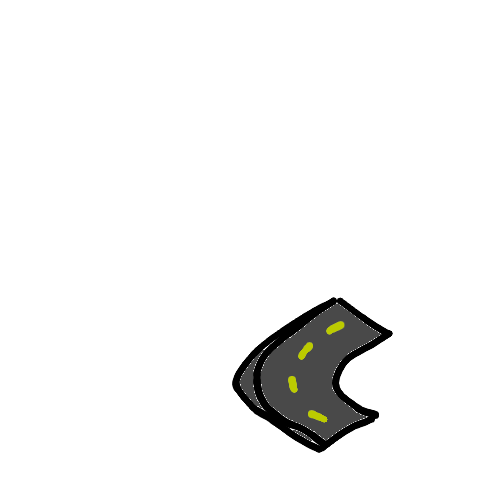
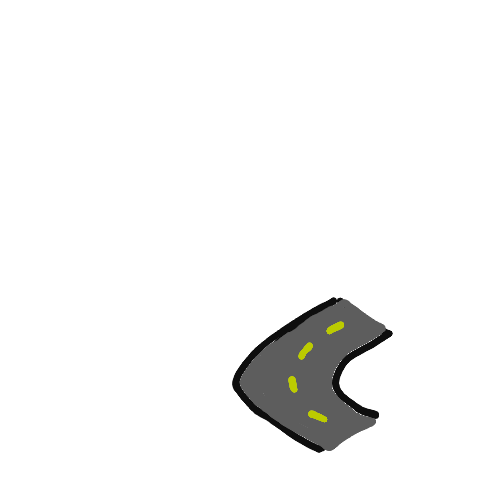
Update road colors and add transition between busy and normal roads

diff --git a/src/game.tsx b/src/game.tsx
@@ -31,7 +31,7 @@ export class GameBoard extends React.Component {
     private money = 100;
 
     private currentSteps = 0;
-    private generationSteps = 25;
+    private generationSteps = 100;
 
     /** Starting size */
     private size = 50;
@@ -139,6 +139,22 @@ export class GameBoard extends React.Component {
 
         if (image) {
             ctx.drawImage(image, converted.x, converted.y, converted.tileSize, converted.tileSize);
+
+            // more road stuff?
+            if(tile.type == "road"){
+                if(t[0] && t[0]!.type == "busyroad"){
+                    ctx.drawImage(this.imageManager.GetImage("transitionroad_1_0_0_0"), converted.x, converted.y, converted.tileSize, converted.tileSize);
+                }
+                if(t[1] && t[1]!.type == "busyroad"){
+                    ctx.drawImage(this.imageManager.GetImage("transitionroad_0_1_0_0"), converted.x, converted.y, converted.tileSize, converted.tileSize);
+                }
+                if(t[2] && t[2]!.type == "busyroad"){
+                    ctx.drawImage(this.imageManager.GetImage("transitionroad_0_0_1_0"), converted.x, converted.y, converted.tileSize, converted.tileSize);
+                }
+                if(t[3] && t[3]!.type == "busyroad"){
+                    ctx.drawImage(this.imageManager.GetImage("transitionroad_0_0_0_1"), converted.x, converted.y, converted.tileSize, converted.tileSize);
+                }
+            }
         }
     }
 
@@ -681,7 +697,7 @@ export class GameBoard extends React.Component {
                 && n.y == straightY);
 
             var nextRoad = unit.lastTile;
-            if (straightRoad[0] && Math.random() < .9) {
+            if (straightRoad[0] && Math.random() < .75) {
                 nextRoad = straightRoad[0]!;
             }
             else {
@@ -731,6 +747,7 @@ export class GameBoard extends React.Component {
                 if (counts["road"] + counts["busyroad"] > 0) {
                     onlyOneBusiness = true;
                     t.type = "yourbusiness";
+                    t.construction = undefined;
 
                     var s = this.convertToScreenSpace(t);
 
@@ -755,7 +772,7 @@ export class GameBoard extends React.Component {
         //this.allUnits.forEach(u => this.drawUnit(u, this.ctx!));
     }
 
-    private animationsPerCarTile = 15;
+    private animationsPerCarTile = 10;
     private currentAnimationStep = 0;
 
     private convertToOrtho = (tile: entity) => {

diff --git a/src/imageManager.ts b/src/imageManager.ts
@@ -14,12 +14,21 @@ import construction_small from "./images/construction/construction_small.png";
 import construction_medium from "./images/construction/construction_medium.png";
 import construction_large from "./images/construction/construction_large.png";
 
+// transitions
+import transitionroad_1_0_0_0 from "./images/transitionroad/transitionroad_1_0_0_0.png";
+import transitionroad_0_1_0_0 from "./images/transitionroad/transitionroad_0_1_0_0.png";
+import transitionroad_0_0_1_0 from "./images/transitionroad/transitionroad_0_0_1_0.png";
+import transitionroad_0_0_0_1 from "./images/transitionroad/transitionroad_0_0_0_1.png";
+
+
 import car from "./images/car.png";
 
 import { Roads } from "./images/road";
 import { BusyRoads } from "./images/busyroad";
 import { Waters } from "./images/water";
 import { Cars } from "./images/car";
+
+
 
 const Images = {
     ...Roads,
@@ -43,6 +52,11 @@ const Images = {
     construction_small,
     construction_medium,
     construction_large,
+
+    transitionroad_1_0_0_0,
+    transitionroad_0_1_0_0,
+    transitionroad_0_0_1_0,
+    transitionroad_0_0_0_1,
 }
 
 const elements: { [key: string]: HTMLImageElement } = {};

diff --git a/src/tiles/road.ts b/src/tiles/road.ts
@@ -11,6 +11,7 @@ export class Road {
         return GetImage(("road_"+ext) as SupportedImages)
          || GetImage("road_1_1_1_1" as SupportedImages);
     }
+
 }
 
 
@@ -24,4 +25,23 @@ export class BusyRoad {
         return GetImage(("busyroad_"+ext) as SupportedImages)
          || GetImage("busyroad_1_1_1_1" as SupportedImages);
     }
+
+    public static AddTransitions(tile: ITile, neighbors: (ITile | undefined)[], ctx: CanvasRenderingContext2D): void {
+        if(tile.type == "road"){
+            var converted = this.convertToScreenSpace(tile, 0, 0);
+            var ext = Tile.GetSingleTileExtension("busyroad", t);
+
+            if(neighbors[0] && neighbors[0]!.type == "busyroad"){
+                ctx.drawImage(img, converted.x, converted.y, converted.tileSize, converted.tileSize);
+            }
+
+            if(ext != "0_0_0_0"){
+                var img = GetImage("transitionroad_" + ext);
+                if(img){
+                    ctx.drawImage(img, converted.x, converted.y, converted.tileSize, converted.tileSize);
+                }
+            }
+        }
+    }
+
 }
